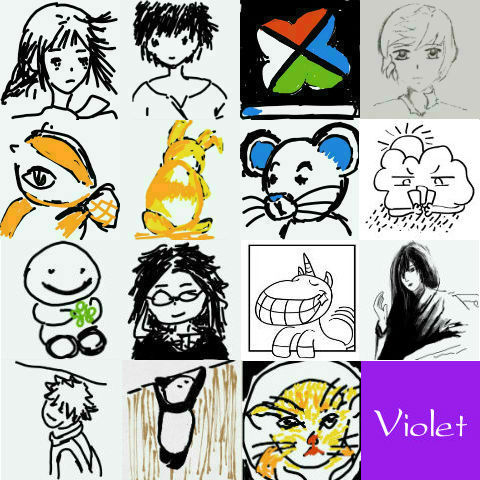
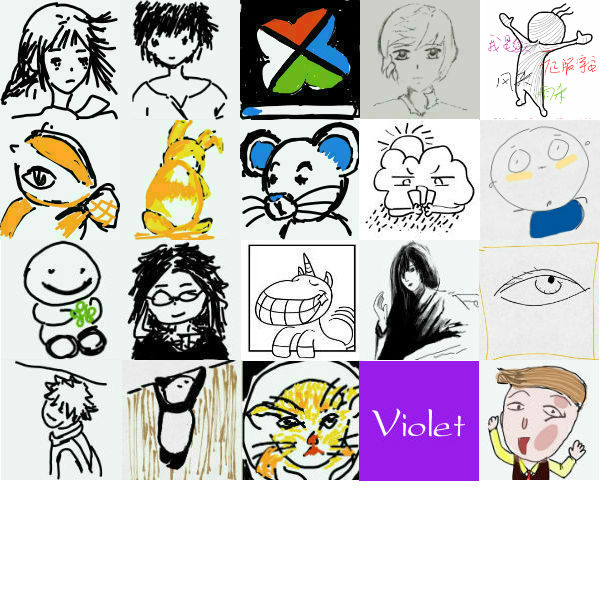
...

diff --git a/html/shijing/dyd.html b/html/shijing/dyd.html
@@ -26,7 +26,7 @@
     <div class="site-wrapper">
       <div class="site-wrapper-inner">
         <div class="cover-container">
-		<div class="inner cover details meng">
+		<div class="inner cover details dyd">
 			<a class="logo" href="./">
 				<img src="../../img/logo.jpg">
 			</a>
@@ -44,9 +44,8 @@
 			</div>
 			<div class="row clearfix">
 				<div class="col-md-4">
-					
 					<section>
-						<p>再别情人&小车</p>				
+						<p><span class="author zbqr" data-toggle="popover" title="再别情人" data-content="<span class='profile zbqr'></span><span>QQ:444957797</span><br><span>签名:Doing well by doing good.</span>">再别情人</span>&<span class="author xc" data-toggle="popover" title="小车" data-content="<span class='profile xc'></span><span>QQ:674786072</span><br><span>签名:好无聊啊。。神呐，赐个小伙伴和我出去玩。。。</span>">小车</span></p>				
 						<p>今天和你聊天后，我像往常一样上了地铁。</p><p>
 						地铁里的人也和往常一样，聊天的、看kindle的、看iPhone的、看Samsung的、打电话的都有。我觉得有点困了，就闭着眼睛，准备休息一下。</p><p>
 						突然，地铁里响起了刺耳的警报声。</p><p>
@@ -60,7 +59,7 @@
 						然后我醒了。</p>
 					</section>
 					<section class="reverse">
-						<p>陌颜陌路</p>
+						<p><span class="author myml" data-toggle="popover" title="陌颜陌路" data-content="<span class='profile moml'></span><span>QQ:435374939</span><br><span>签名：仙人掌握着满把孤独，却拒绝轻薄的同情。</span>">陌颜陌路</span></p>
 						<p>面前一丛海芋，但和现实中的海芋不一样，是从一个球茎上密密麻麻长出了很多茎叶，开出了很多花，还有更多的小茎叶冒出来。</p><p>
 						旁边有人问我：“你觉得它美吗？”</p><p>
 						我没回答。</p><p>
@@ -72,7 +71,7 @@
 						多年前的梦，至今未忘。	</p>
 					</section>
 					<section>
-						<p>无所不能@小车</p>
+						<p><span class="author xc" data-toggle="popover" title="小车" data-content="<span class='profile xc'></span><span>QQ:674786072</span><br><span>签名:好无聊啊。。神呐，赐个小伙伴和我出去玩。。。</span>">小车</span></p>
 						<p>这个梦永远都忘不了。</p><p>
 						我梦见在一条古老沧桑的的街道上，周围有酒楼有药店，但是没有一个人，所有的楼上都挂着红色的绸带，飘啊飘啊。</p><p>
 						街道中间放着一顶结婚的轿子，自己穿着一身红色的衣服，从里面出来，没有唢呐，也没有人声。</p><p>
@@ -87,21 +86,21 @@
 				</div>
 				<div class="col-md-4">
 					<section class="reverse">
-						<p>兔子</p>
+						<p><span class="author tz" data-toggle="popover" title="兔子" data-content="<span class='profile tz'></span><span>QQ:1183448115</span><br><span>签名:以大多数人的努力程度之低，根本轮不到拼天赋。</span>">兔子</span></p>
 						<p>昨天快醒来的时候，梦见汉卿会堂路口有一辆卡车突然停下来，然后我看到它的左前车轮瘪了，两名司机的头撞在方向盘上，地下两摊血...</p>
 					</section>
 					<section>
-						<p>容止</p>
+						<p><span class="author rz" data-toggle="popover" title="容止" data-content="<span class='profile rz'></span><span>QQ:2724081840</span><br><span>签名:like you.</span>">容止</span></p>
 						<p>正睡着，被枕头边的小老鼠吸引了，然后跟着它爬上通往天花板的梯子，来到它们的小窝里。</p><p>
 						那里有高矮不一的蜡烛台，大大小小的老鼠围坐成一堆堆，我问了一下，都是按家庭分堆的。带我上来的小老鼠说：以后有什么吃的就给我剩一些吧。我们一起玩得很开心。</p><p>
 						然后，天花板突然塌陷了，我惨叫一声，醒来了。</p>
 					</section>
 					<section class="reverse">
-						<p>无所不能@I</p>
+						<p><span class="author ing" data-toggle="popover" title="ing" data-content="<span class='profile ing'></span><span>QQ:604135604</span><br><span>签名:死于安乐的故步自封，生于忧患的破茧成蝶。</span>">ing</span></p>
 						<p>小时候看包青天系列，看到尸体、骷髅架就比较害怕，有天晚上做梦梦见电视里的情节，很害怕，就醒了。后来想想，把电视关了不就可以了。后来在做到类似梦的时候，就在梦里把电视关了，就可以继续睡觉了。</p>
 					</section>
 					<section>
-						<p>阿阳</p>
+						<p><span class="author hlm" data-toggle="popover" title="阿阳" data-content="<span class='profile hlm'></span><span>QQ:287758932</span><br><span>签名:我们是不是越来越苍老了…………</span>">阿阳</span></p>
 						<p>几年前的前几天做了一个梦，梦是从逃亡开始的。不知道惊慌，只知道快快地跑，很多人都死了，被陷井和不知道哪里来的子弹。我夹在他们中间，似乎是被他们保护的，死了好多人， 没有鲜血，只有消失和倒下，天很黑。</p><p>
 						我们终于逃出来了，从一个大楼里，高高的，白白的，像是一个研究所。当和其他的人会合时，和我在一起的人也死得差不多了，没人知道我是谁。其他人很强，有着特殊的能力，只有 我什么都不会，就像一个普通人。我们是什么呢，好像我们是吸血鬼，对，我们就是吸血鬼，我们可以初拥，但不一定以血为食，我不知道我为什么知道这些，但我就是知道。当来到了基地 时，我发现那里什么都有，奶牛厂，运动场………… 在基地里我最喜欢给新人做向导，别的人都有着自己的超能力，只有我就像一个普通人。其他人都把我当成小孩子，都安慰我不要着 急，可能我看起来真的像小孩子吧，不过别人看起来都比我大。</p><p>
 						有一天两位始祖（一个很成熟很强大的女性，一个看起来很年轻但是也是公认的强者，同样也是女性）在基地前的湖滩上打乒乓球，我看着好玩也要参加，就找了一个年轻的一起玩，不 过我这里又添了一个人，一个看起来很成熟的人，好像是因为我太弱的原因。新来的人好像很崇敬我的样子，是一个可以让身体部分变出红色鳄鱼皮的女人，我好像以前见过她。她见到我很 激动，我想了想，一幅画面出现在我眼前，在一个河滩上，好几个人捉住她，我咬了她，她就变成红色的鳄鱼，好像是她自愿的吧，应该是被抓之前的事了，不然也不会不记得她了。“你就 是那次我…是吧！”她点点头，恭敬的让人受不了，我又没让她这样，我想了想“阿，那不是我的原因]，那是血的原因。”我们继续玩球，我在拣球时突然想起了自己的身份“我其实是三大 始祖之一，但是我不能变身，这就是命运吧。”一切陷入黑暗，梦就醒了。有些淡淡的失落，总是在梦太过美好时醒来。不过不管在哪里，我就是我，无论现实梦境都不会改变。</p>
@@ -109,7 +108,7 @@
 				</div>
 				<div class="col-md-4">
 					<section>
-						<p>无所不能@呵呵</p>
+						<p><span class="author hh" data-toggle="popover" title="呵呵" data-content="<span class='profile hh'></span><span>QQ:1242702372</span><br><span>签名:为什么坚持，想一想当初</span>">呵呵</span></p>
 						<p>有一个梦记忆很深刻。高三的。</p><p>
 						梦境是，学校被一伙暴徒袭击，好多同学都被打伤，各种枪、手榴弹之类的。</p><p>
 						警察赶来了，但是没打过暴徒，他们火力太猛烈。</p><p>
@@ -122,27 +121,27 @@
 						印象比较深的就是“我们打不过了，你们自生自灭，靠自己吧”，还有那一大堆枪和子弹。可惜没在梦里面表现的英勇点，来个小马哥英雄救美之类的。。。</p>
 					</section>
 					<section class="reverse">
-						<p>小车</p>
+						<p><span class="author xc" data-toggle="popover" title="小车" data-content="<span class='profile xc'></span><span>QQ:674786072</span><br><span>签名:好无聊啊。。神呐，赐个小伙伴和我出去玩。。。</span>">小车</span></p>
 						<p>昨晚睡觉的时候做了一个梦，梦见外星人袭击地球，作为拯救人类的永雄，我用生命的最后一刻将手榴弹扔向敌人……所以，手机又坏了，don'tcontact me……让我静静……</p>
 					</section>
 					<section>
-						<p>许公子</p>
+						<p><span class="author xgz" data-toggle="popover" title="许公子" data-content="<span class='profile xgz'></span><span>QQ:407043953</span><br><span>签名:慢着！这屎里有毒！</span>">许公子</span></p>
 						<p>上个月，梦见自己背了一把剑去闯荡江湖，遇到一个铸剑师傅。</p><p>酒酣耳热之际，他表示要帮我在我的剑上刻几个字，以后看见死人，看下伤口，就知道是我杀的了。我想了一下，让他在我的剑上刻下——那寂寞的姑娘是待采的莲……</p>
 					</section>
 					<section class="reverse">
-						<p>无所不能@车</p>
+						<p><span class="author dc" data-toggle="popover" title="大车" data-content="<span class='profile dc'></span><span>QQ:126124579</span><br><span>签名:有一天赶上壮丽落霞，把酒干杯松开牵挂，哼歌去，走音哪管...</span>">大车</span></p>
 						<p>记得有两个梦比较清楚，一个是梦到了在纽约自由港散步，另一个就梦见新买的自行车丢了...</p>
 					</section>
 					<section>
-						<p>一直……</p>
+						<p><span class="author yz" data-toggle="popover" title="一直......" data-content="<span class='profile yz'></span><span>QQ:452963101</span><br><span>签名:世界不会在意你的自尊，人们看的只是你的成就。</span>">一直......</span></p>
 						<p>冲啊....打倒帝国主义.....,我是女特务.....，还会钻地道....,我是有多爱国啊....</p>
 					</section>
 					<section>
-						<p>小车</p>
+						<p><span class="author xc" data-toggle="popover" title="小车" data-content="<span class='profile xc'></span><span>QQ:674786072</span><br><span>签名:好无聊啊。。神呐，赐个小伙伴和我出去玩。。。</span>">小车</span></p>
 						<p>我梦见过两个人，一个是春秋战国时的公子，叫公子零；一个是小学的校长，叫李缴（梦中他告诉我他的名字，我说是缴械投降，还写成绞~~呵呵）现在依然记得~~还有几个名字，但是都就不清了~~~</p>
 					</section>
 					<section class="reverse">
-						<p>陌颜陌路</p>
+						<p><span class="author myml" data-toggle="popover" title="陌颜陌路" data-content="<span class='profile moml'></span><span>QQ:435374939</span><br><span>签名：仙人掌握着满把孤独，却拒绝轻薄的同情。</span>">陌颜陌路</span></p>
 						<p>还有一个感觉忘不掉的梦。</p><p>
 						梦见走夜路，一个人拿着手电筒在漆黑的山路上行走，知道自己要回家，但是那路好长好长……怎么也走不完的样子，奇怪的是，心里不害怕。</p><p>
 						在静的没有一点声音的山路上，只有我和手电筒的亮光，就这样走啊走啊走啊……一直走到我醒来，都没有走到家。</p><p>

diff --git a/css/cover.css b/css/cover.css
@@ -324,14 +324,16 @@ section.reverse{
 }
 section p:first-child{
 	font-size:1.2em;
-	color:#333;
+	color:#333 !important;
 	text-indent:0 !important;
 	border-bottom:1px dashed #aaa;
 }
+section p:first-child>span{color:#333 !important;}
 section.reverse p:first-child{
-	color:#f00;
+	color:#f00 !important;
 	border-bottom:1px dashed #f00;
 }
+section.reverse p:first-child>span{color:#f00 !important;}
 /*
  * Footer
  */
@@ -527,7 +529,7 @@ p.hr{
 	width:48px;
 	height:48px;
 	margin-right:8px;
-	background-size:192px auto;
+	background-size:240px auto;
 }
 .profile.nrc{
 	background-position:-48px 0;
@@ -576,6 +578,18 @@ p.hr{
 }
 .profile.xc{
 	background-position:-144px  -144px;
+}
+.profile.dc{
+	background-position:-192px  -48px;
+}
+.profile.yz{
+	background-position:-192px  -96px;
+}
+.profile.xgz{
+	background-position:-192px  -144px;
+}
+.profile.hh{
+	background-position:-192px 0;
 }
 #prev,#next{
 	display:inline-block;

diff --git a/html/shijing.html b/html/shijing.html
@@ -43,7 +43,7 @@
 						<dt>插图</dt>
 						<dd>
 							<span class="author ls" data-toggle="popover" title="懒树" data-content="<span class='profile ls'></span><span>QQ:910414112</span><br><span>签名:人生就是我们脚下的路，是一连串生命的体验，更是一次灵魂的远行。</span>">懒树</span>、
-							<span class="author hlm" data-toggle="popover" title="幻赖迷" data-content="<span class='profile hlm'></span><span>QQ:287758932</span><br><span>签名:我们是不是越来越苍老了…………</span>">幻赖迷</span>
+							<span class="author hlm" data-toggle="popover" title="阿阳" data-content="<span class='profile hlm'></span><span>QQ:287758932</span><br><span>签名:我们是不是越来越苍老了…………</span>">阿阳</span>
 						</dd>
 						<dt>排版制作</dt>
 						<dd>

diff --git a/html/shijing/xuelai-2.html b/html/shijing/xuelai-2.html
@@ -106,7 +106,7 @@
 		</div>
 		<a id="sTop" href="#">Top</a>
 		<a  id="prev" href="xuelai.html">上一篇</a>
-		<a  id="next" href="dyd.html">上一篇</a>
+		<a  id="next" href="dyd.html">下一篇</a>
        </div>
 
       </div>
